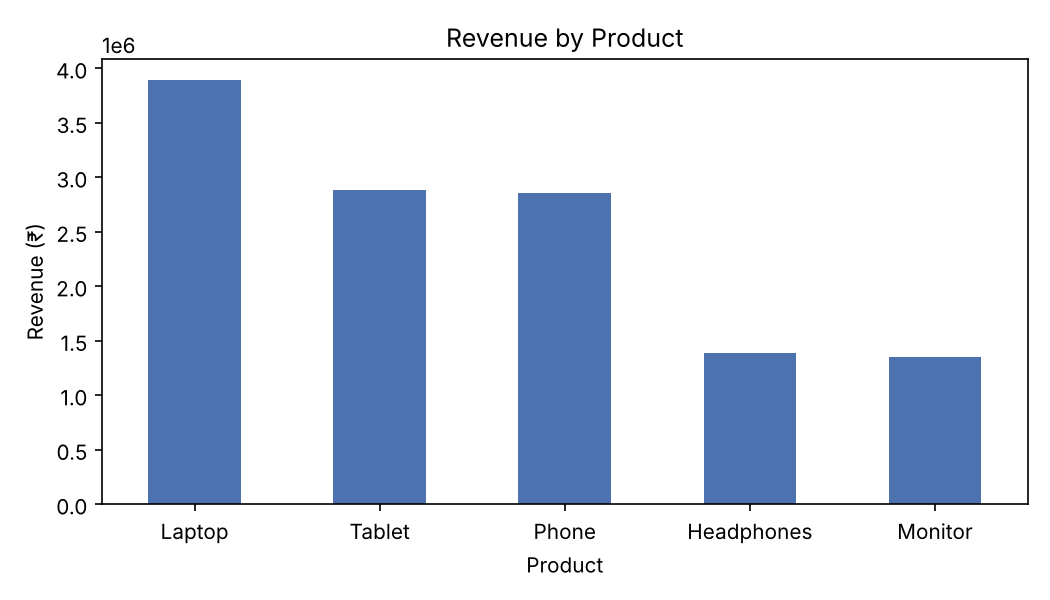
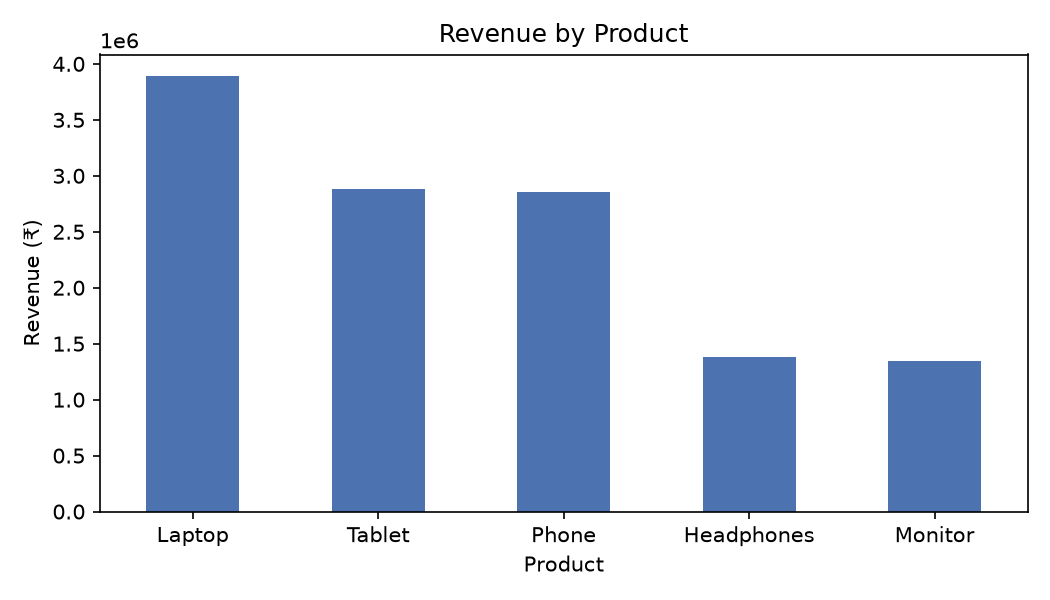
Add screenshots and documentation

diff --git a/analysis_report.md b/analysis_report.md
@@ -54,3 +54,34 @@ to find total sales, the best-selling product and other key metrics.
 - **North** and **South** together bring in 62% of revenue; **West** is the weakest region.
 - April has only 9 days of data, so its low total is not a real drop.
 - Tablet has the most orders (26) but Laptop earns more because of higher prices.
+
+
+## Setup Instructions
+1. Install Python 3.9 or newer.
+2. Install the libraries: `pip install -r requirements.txt`
+3. Run the analysis: `python sales_analysis.py`
+
+## Code Structure
+- `sales_analysis.py` - loads, cleans and analyzes the data, then writes the report
+- `sales_data.csv` - input dataset (100 rows, 7 columns)
+- `analysis_report.md` - this report
+- `requirements.txt` - pandas, matplotlib
+- `Screenshots/` - terminal output and report preview images
+
+## Technical Details
+Pandas loads the CSV into a DataFrame. Dates are converted to datetime, duplicates are removed and missing numbers are filled with the median. `groupby` calculates revenue by product, region and month.
+
+## Testing Evidence
+- Missing values: 0
+- Duplicate rows: 0
+- Rows where Total_Sales differs from Quantity x Price: 0
+- Total revenue (₹12,365,048) matches a manual sum of the Total_Sales column.
+
+## Screenshots
+![Terminal output 1](Screenshots/terminal_output_1.png)
+![Terminal output 2](Screenshots/terminal_output_2.png)
+![Report preview 1](Screenshots/report_preview_1.png)
+![Report preview 2](Screenshots/report_preview_2.png)
+![Report preview 3](Screenshots/report_preview_3.png)
+![Report preview 4](Screenshots/report_preview_4.png)
+![Report preview 5](Screenshots/report_preview_5.png)
